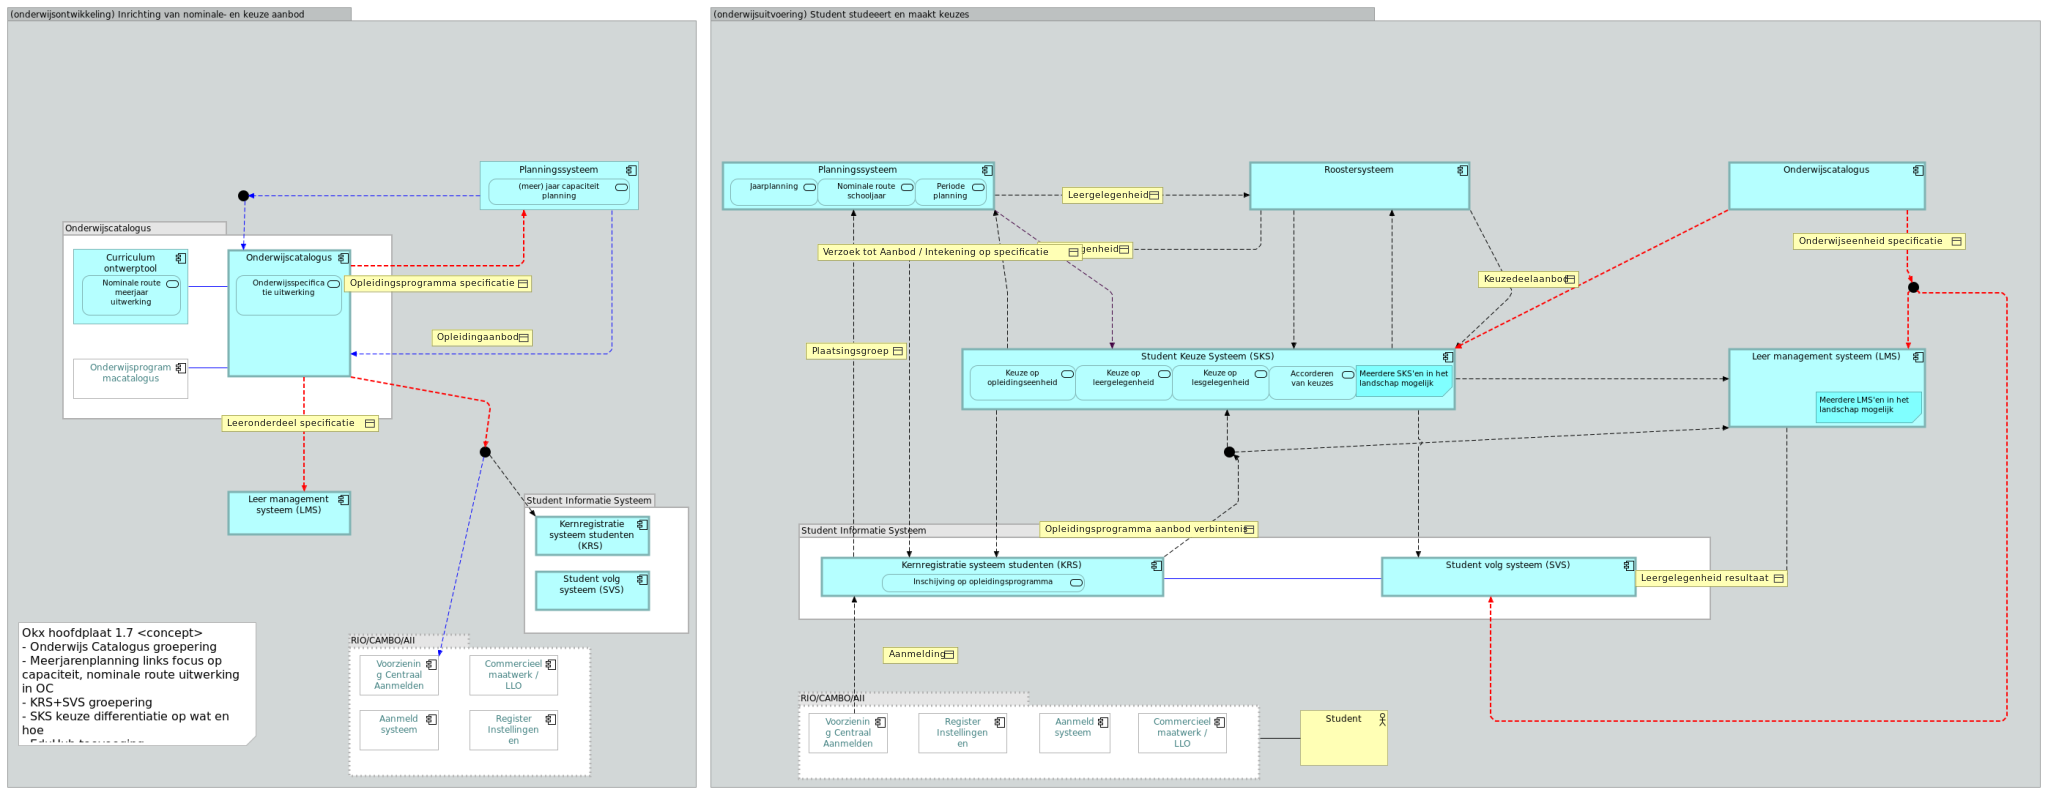
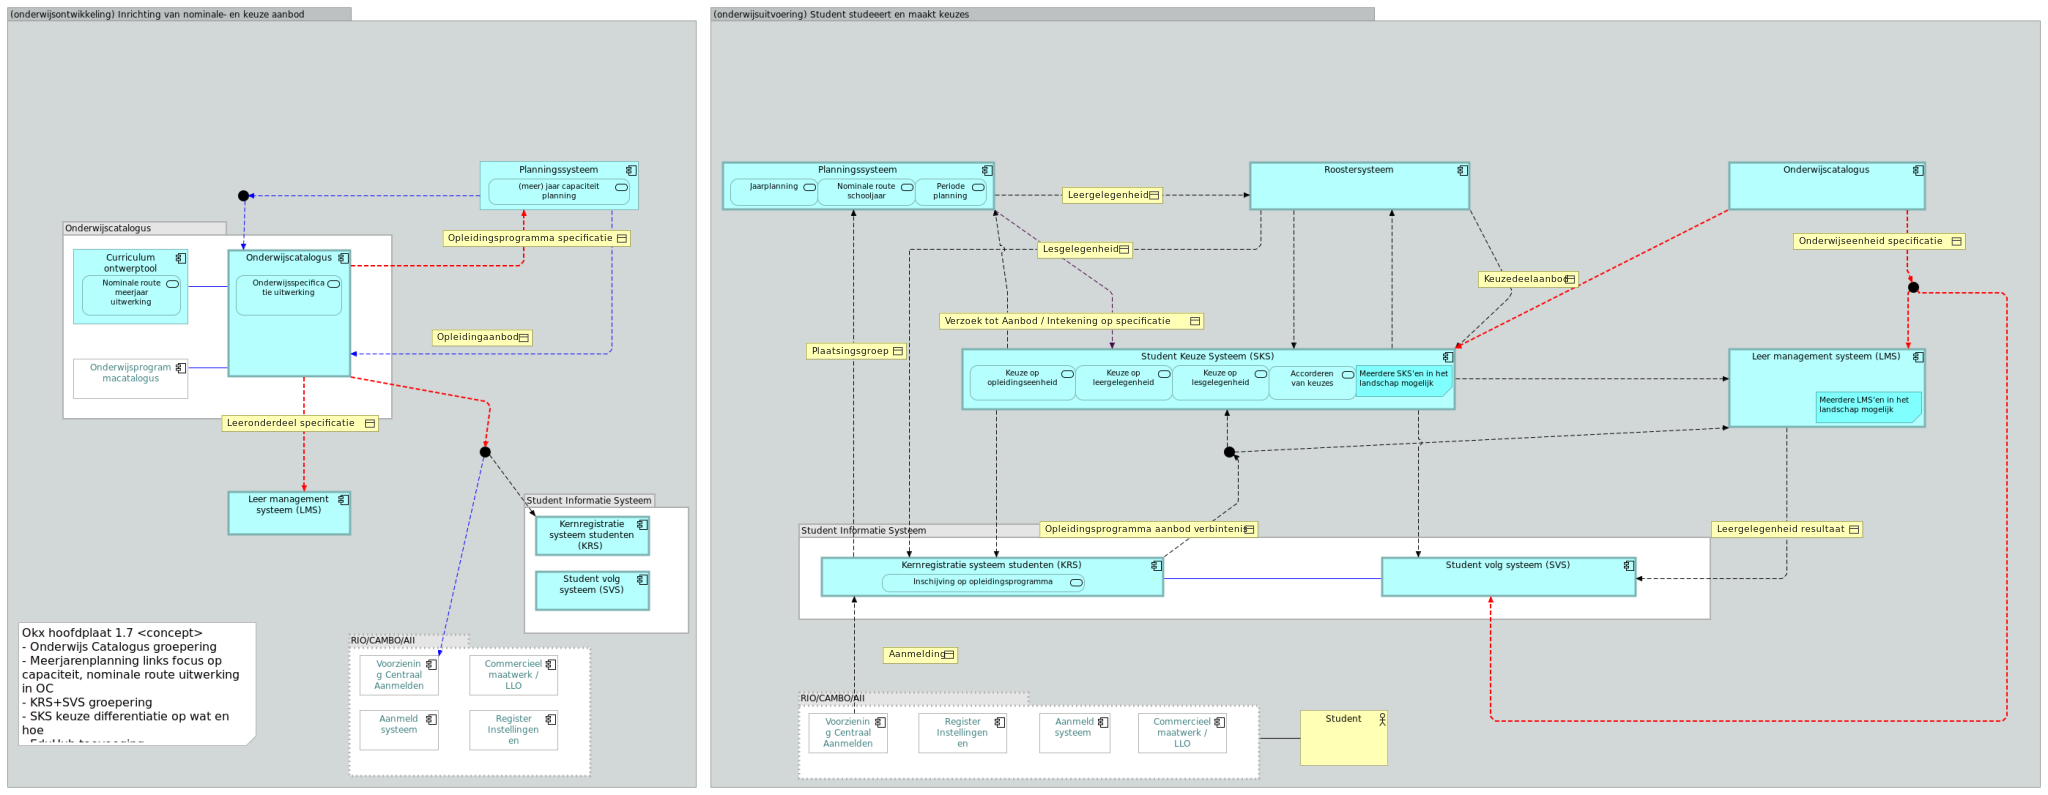
PoC: plaat met overlapvrije objecten, en de orthogonale variant ter vergelijking
Relateert aan #237 en #242.

Claude-Session: https://claude.ai/code/session_01U2MjeqKoEDeZ8DcuBYKUcY

diff --git a/architecture/agent-artifacts/research/20260916_1300_voorbeelduitwerking-leerroute-1/README.md b/architecture/agent-artifacts/research/20260916_1300_voorbeelduitwerking-leerroute-1/README.md
@@ -97,3 +97,5 @@ Met `--objecten` laat het script de pijlteksten op de kopie weg en met `--ruimte
 
 ![Hoofdplaat met alleen de informatieobjecten, 25 procent ruimer](poc/hoofdplaat-v17-zonder-context-alleen-objecten.png)
 
+Knikpunten schalen als absolute punten (Archi bewaart een knik als offset ten opzichte van bron en doel), zodat de pijlvorm van de modelleur behouden blijft; objectvakken krijgen per pijl kandidaatposities en het eerste vak dat niets raakt wint. De optie `--orthogonaal` vervangt schuine segmenten door rechte hoeken, maar levert op een plaat die niet voor rechte hoeken is getekend nieuwe kruisingen op; de routering van pijlen blijft daarom werk voor Archi (knikpunten of de Manhattan-router), het script reproduceert en verrijkt. Ter vergelijking: [met behoud van de pijlvorm](poc/hoofdplaat-v17-zonder-context-alleen-objecten.png) tegenover [orthogonaal](poc/hoofdplaat-v17-zonder-context-orthogonaal.png).
+
